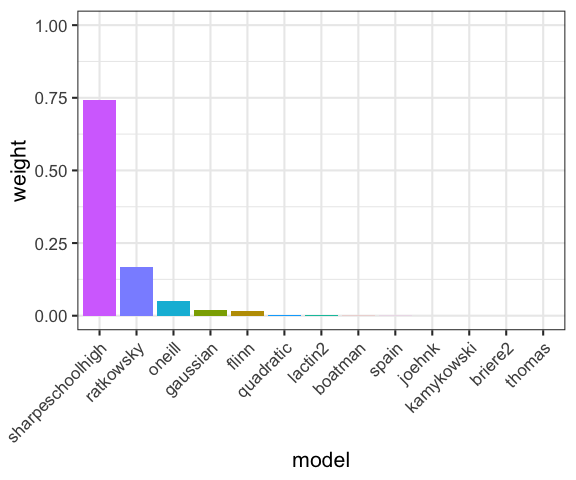
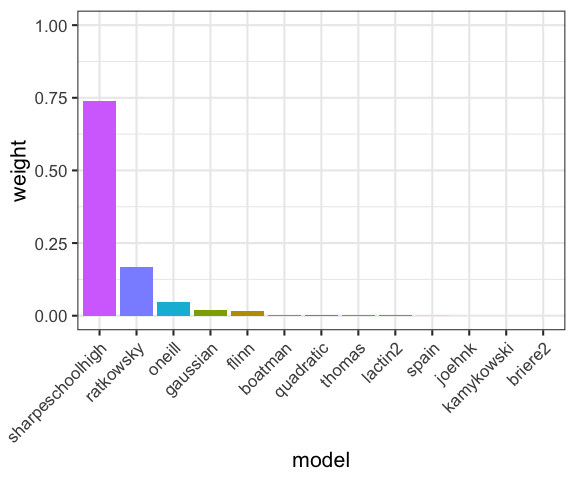
Scale-up curve fitting to many curves at once.

diff --git a/README.md b/README.md
@@ -254,3 +254,167 @@ ggplot() +
 ```
 
 <img src="man/figures/README-model_average-1.png" width="50%" />
+
+We can then easily implement this code on many different models and plot
+the output. For example we can fit this model ensemble to each of 15
+curves from the dataset, calculate the **AICc** for each one and then
+plot the model averaged curve.
+
+``` r
+# filter 15 curves
+d_15 <- filter(d, curve_id <= 15)
+
+# run each model on each curve
+# run in purrr - going to be a huge long command this one
+d_models <- group_by(d_15, curve_id, growth.temp, process, flux) %>%
+  nest() %>%
+  mutate(., lactin2 = map(data, ~nls_multstart(rate ~ lactin2_1995(temp = temp, p, c, tmax, tref),
+                       data = .x,
+                       iter = 500,
+                       start_lower = c(p = 0, c = -2, tmax = 35, tref = 0),
+                       start_upper = c(p = 3, c = 0, tmax = 55, tref = 15),
+                       supp_errors = 'Y')),
+            sharpeschoolhigh = map(data, ~nls_multstart(rate ~ sharpeschoolhigh_1981(temp_k = K, r_tref, e, eh, th, tref = 15),
+                                                     data = .x,
+                                                     iter = 500,
+                                                     start_lower = c(r_tref = 0.01, e = 0, eh = 0, th = 270),
+                                                     start_upper = c(r_tref = 2, e = 3, eh = 10, th = 330),
+                                                     supp_errors = 'Y')),
+            thomas = map(data, ~nls_multstart(rate ~ thomas_2012(temp = temp, a, b, c, topt),
+                                           data = .x,
+                                           iter = 500,
+                                           start_lower = c(a = -10, b = -10, c = -10, topt = 0),
+                                           start_upper = c(a = 10, b = 10, c = 10, topt = 40),
+                                           supp_errors = 'Y',
+                                           lower = c(a= 0, b = -10, c = 0, topt = 0))),
+            briere2 = map(data, ~nls_multstart(rate ~ briere2_1999(temp = temp, tmin, tmax, a, b),
+                                           data = .x,
+                                           iter = 500,
+                                           start_lower = c(tmin = 0, tmax = 20, a = -10, b = -10),
+                                           start_upper = c(tmin = 20, tmax = 50, a = 10, b = 10),
+                                           supp_errors = 'Y',
+                                           lower = c(tmin = -10, tmax = 20, a = -10, b = -10),
+                                           upper = c(tmin = 20, tmax = 80, a = 10, b = 10))),
+            spain = map(data, ~nls_multstart(rate ~ spain_1982(temp = temp, a, b, c, r0),
+                                           data = .x,
+                                           iter = 500,
+                                           start_lower = c(a = -1, b = -1, c = -1, r0 = -1),
+                                           start_upper = c(a = 1, b = 1, c = 1, r0 = 1),
+                                           supp_errors = 'Y')),
+            ratkowsky = map(data, ~nls_multstart(rate ~ ratkowsky_1983(temp = temp, tmin, tmax, a, b),
+                                           data = .x,
+                                           iter = 500,
+                                           start_lower = c(tmin = 0, tmax = 20, a = -10, b = -10),
+                                           start_upper = c(tmin = 20, tmax = 50, a = 10, b = 10),
+                                           supp_errors = 'Y')),
+            boatman = map(data, ~nls_multstart(rate ~ boatman_2017(temp = temp, rmax, tmin, tmax, a, b),
+                                           data = .x,
+                                           iter = 500,
+                                           start_lower = c(rmax = 0, tmin = 0, tmax = 35, a = -1, b = -1),
+                                           start_upper = c(rmax = 2, tmin = 10, tmax = 50, a = 1, b = 1),
+                                           supp_errors = 'Y')),
+            flinn = map(data, ~nls_multstart(rate ~ flinn_1991(temp = temp, a, b, c),
+                                           data = .x,
+                                           iter = 500,
+                                           start_lower = c(a = 0, b = -2, c = -1),
+                                           start_upper = c(a = 30, b = 2, c = 1),
+                                           supp_errors = 'Y')),
+            gaussian = map(data, ~nls_multstart(rate ~ gaussian_1987(temp = temp, rmax, topt, a),
+                                           data = .x,
+                                           iter = 500,
+                                           start_lower = c(rmax = 0, topt = 20, a = 0),
+                                           start_upper = c(rmax = 2, topt = 40, a = 30),
+                                           supp_errors = 'Y')),
+            oneill = map(data, ~nls_multstart(rate ~ oneill_1972(temp = temp, rmax, tmax, topt, a),
+                                           data = .x,
+                                           iter = 500,
+                                           start_lower = c(rmax = 1, tmax = 30, topt = 20, a = 1),
+                                           start_upper = c(rmax = 2, tmax = 50, topt = 40, a = 2),
+                                           supp_errors = 'Y')),
+            joehnk = map(data, ~nls_multstart(rate ~ joehnk_2008(temp = temp, rmax, topt, a, b, c),
+                                           data = .x,
+                                           iter = 500,
+                                           start_lower = c(rmax = 0, topt = 20, a = 0, b = 1, c = 1),
+                                           start_upper = c(rmax = 2, topt = 40, a = 30, b = 2, c = 2),
+                                           supp_errors = 'Y',
+                                           lower = c(rmax = 0, topt = 0, a = 0, b = 1, c = 1))),
+            kamykowski = map(data, ~nls_multstart(rate ~ kamykowski_1985(temp = temp, tmin, tmax, a, b, c),
+                                           data = .x,
+                                           iter = 500,
+                                           start_lower = c(tmin = 0, tmax = 10, a = -3, b = -1, c = -1),
+                                           start_upper = c(tmin = 20, tmax = 50, a = 3, b = 1, c =1),
+                                           supp_errors = 'Y')),
+            quadratic = map(data, ~nls_multstart(rate ~ quadratic_2008(temp = temp, a, b, c),
+                                           data = .x,
+                                           iter = 500,
+                                           start_lower = c(a = 0, b = -2, c = -1),
+                                           start_upper = c(a = 30, b = 2, c = 1),
+                                           supp_errors = 'Y')),
+            hinshelwood = map(data, ~nls_multstart(rate ~ hinshelwood_1947(temp = temp, a, e, c, eh),
+                                           data = .x,
+                                           iter = 500,
+                                           start_lower = c(a = 1e9, e = 5, c = 1e9, eh = 0),
+                                           start_upper = c(a = 1e11, e = 20, c = 1e11, eh = 20),
+                                           supp_errors = 'Y')))
+
+# stack models
+d_stack <- gather(d_models, 'model', 'output', 6:ncol(d_models))
+
+# preds
+newdata <- tibble(temp = seq(min(d_1$temp), max(d_1$temp), length.out = 100),
+                  K = seq(min(d_1$K), max(d_1$K), length.out = 100))
+d_preds <- d_stack %>%
+  unnest(., output %>% map(augment, newdata = newdata)) %>%
+  mutate(., temp = ifelse(model == 'sharpeschoolhigh', K - 273.15, temp))
+
+# calculate AICc score and weight models
+d_stack <- mutate(d_stack, aic = map_dbl(output, possibly(MuMIn::AICc, NA))) %>%
+  filter(., !is.na(aic)) %>%
+  group_by(curve_id) %>%
+  mutate(., weight = MuMIn::Weights(aic))
+
+# calculate average predictions
+ave_preds <- merge(d_preds, select(d_stack, model, weight, curve_id), by = c('model', 'curve_id')) %>%
+  mutate(., temp = round(temp, 2)) %>%
+  group_by(temp, curve_id) %>%
+  summarise(., ave_pred = sum(.fitted*weight)) %>%
+  ungroup()
+```
+
+We can then make the exact plots as we made previously. Firstly of the
+predictions of each curve.
+
+``` r
+lines <- data.frame(val = 0, curve_id = 1:15)
+
+ggplot() +
+  geom_point(aes(temp, rate), d_15) +
+  geom_line(aes(temp, .fitted, group = model), alpha = 0.1, filter(d_preds, .fitted > -0.5 & .fitted < 3)) +
+  geom_line(aes(temp, ave_pred), ave_preds, size = 1) +
+  facet_wrap(~ curve_id, scales = 'free_y') +
+  theme_bw(base_size = 16) +
+  theme(legend.position = 'none',
+        strip.text = element_text(hjust = 0),
+        strip.background = element_blank()) +
+  xlab('Temperature (ºC)') +
+  ylab('rate') +
+  geom_hline(aes(yintercept = val), linetype = 2, lines)
+```
+
+<img src="man/figures/README-plot_preds_many-1.png" width="100%" />
+
+We can also plot the distribution of the weights across all of the
+curves.
+
+``` r
+ggplot(d_stack, aes(forcats::fct_reorder(model, weight, .desc = TRUE), weight)) +
+  MicrobioUoE::geom_pretty_boxplot(aes(fill = model, col = model)) +
+  geom_point(shape = 21, fill = 'white', position = position_jitter(width = 0.2), size = 2) +
+  theme_bw(base_size = 16) +
+  xlab('model') +
+  theme(legend.position = 'element_blank',
+        axis.text.x = element_text(angle = 45, hjust = 1)) +
+  ylim(c(0,1)) 
+```
+
+<img src="man/figures/README-plot_weights_many-1.png" width="60%" />
